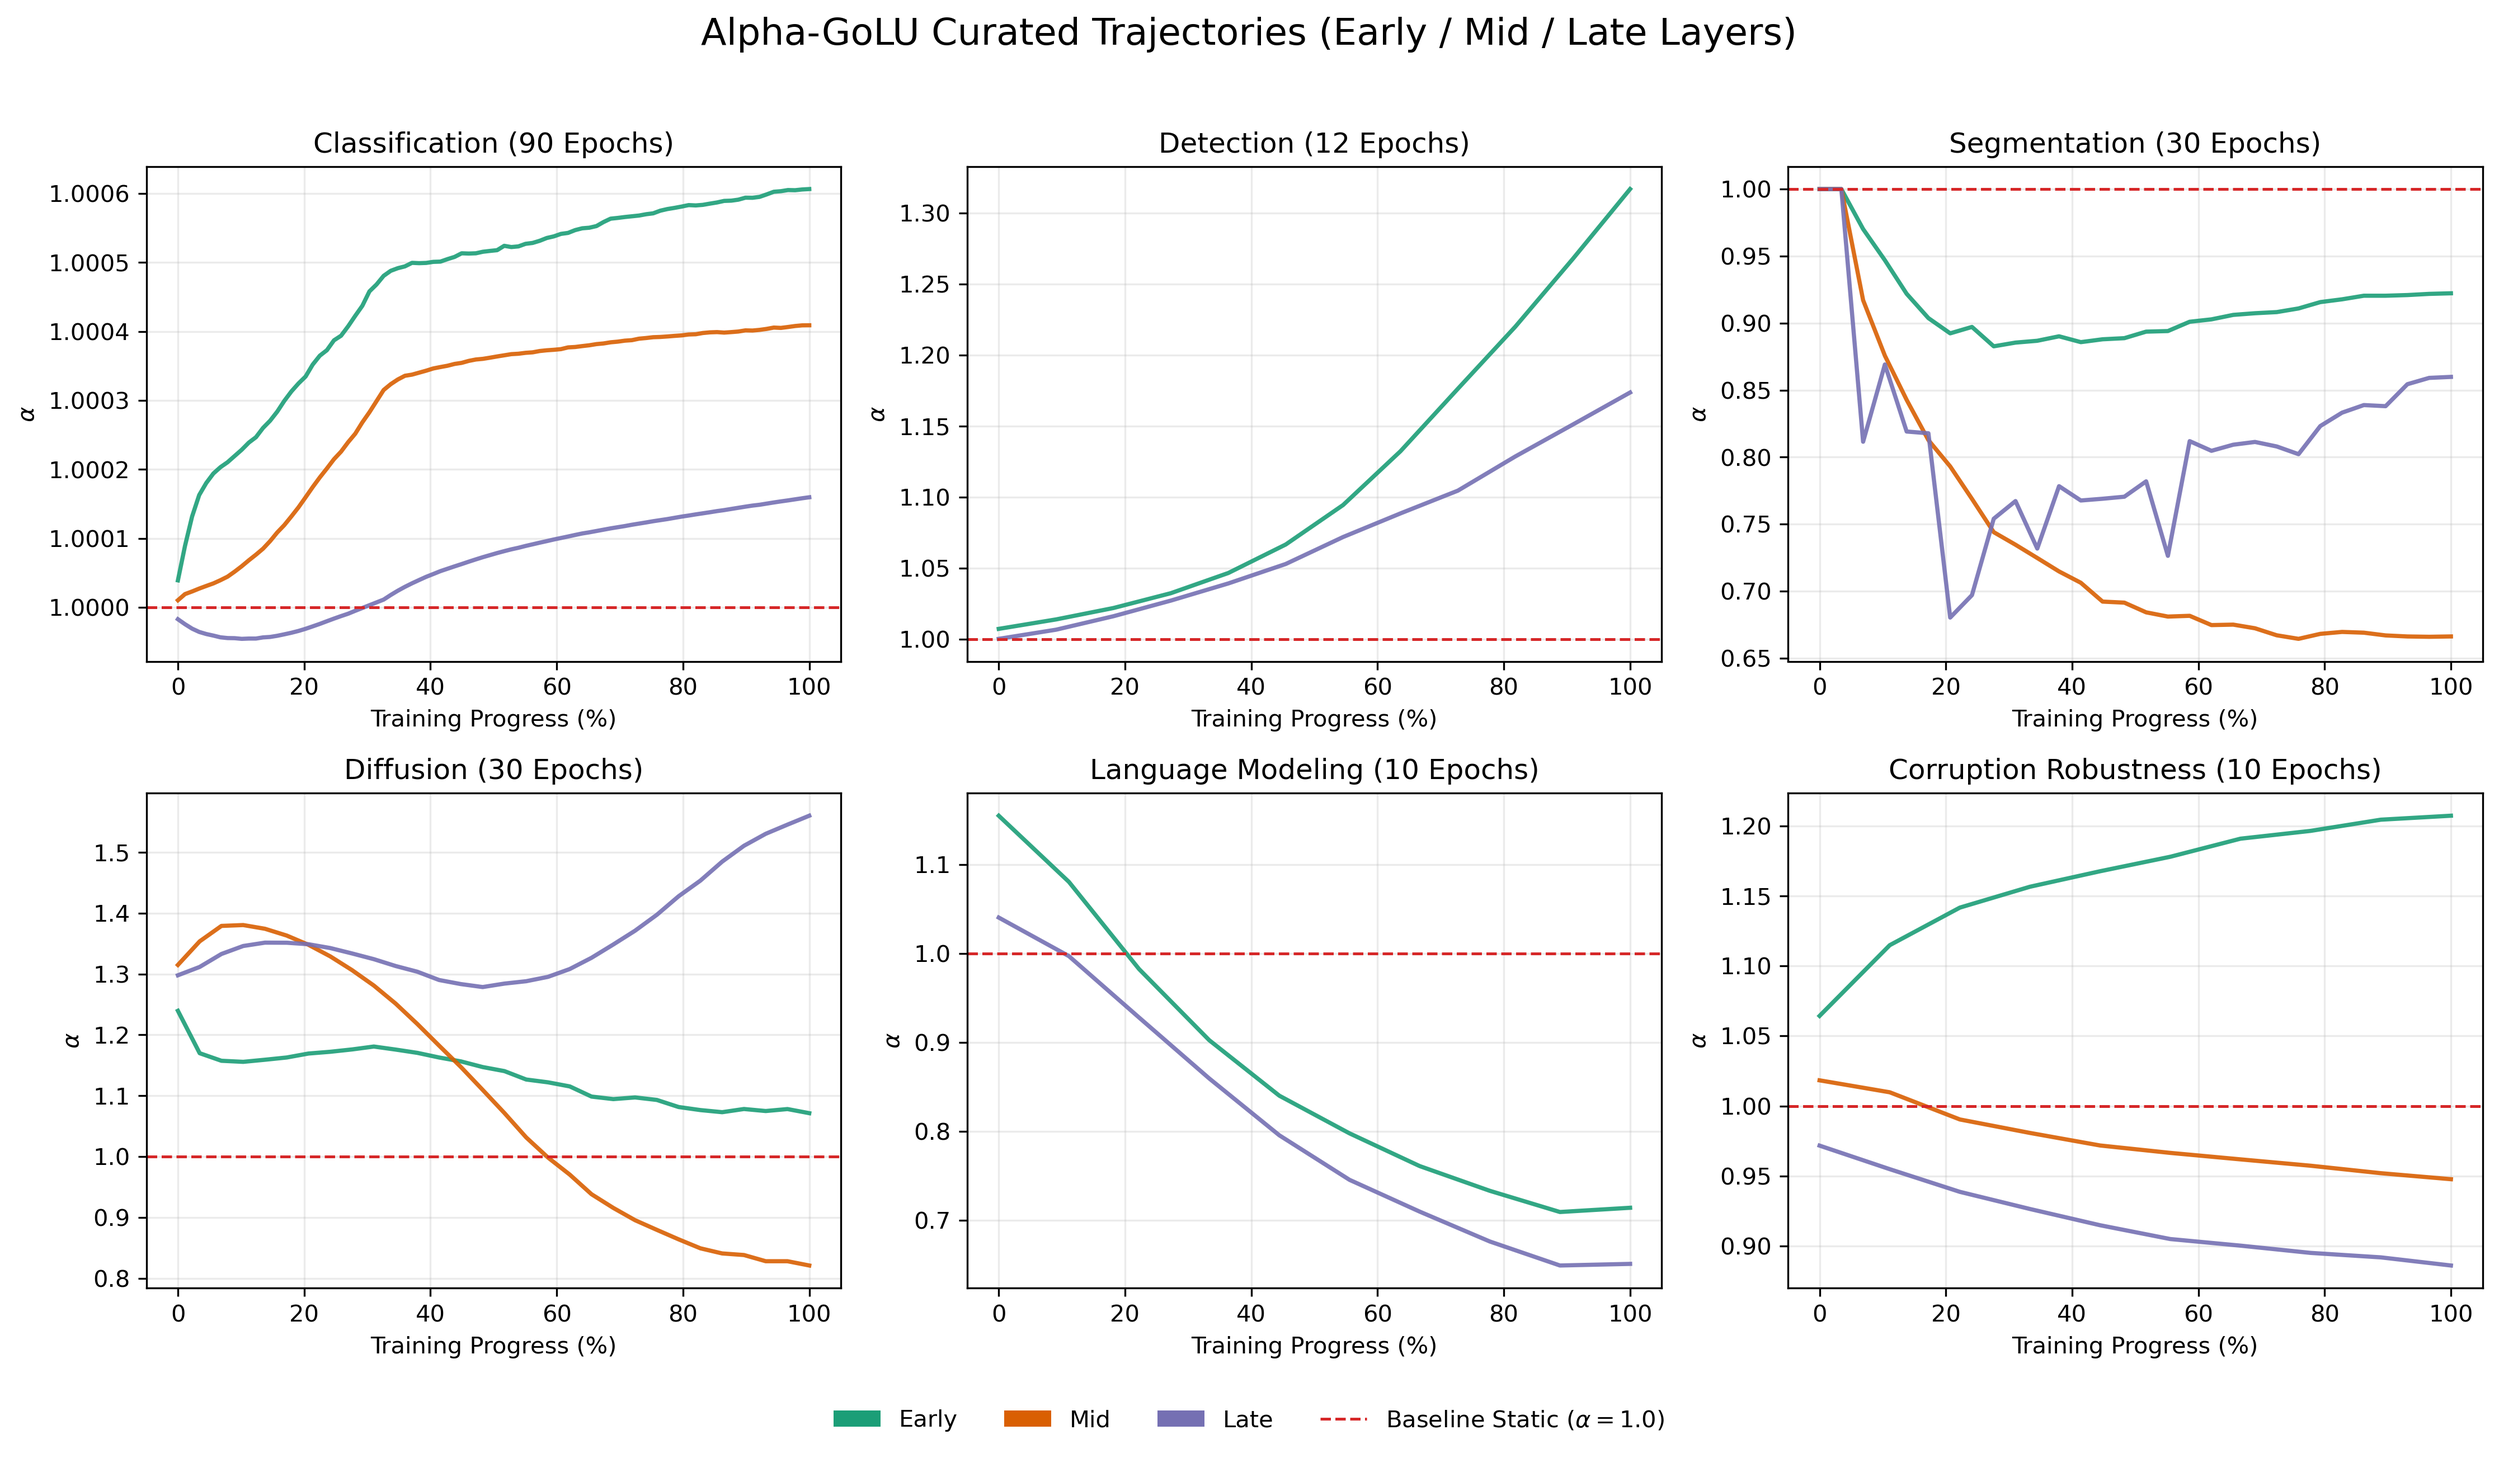
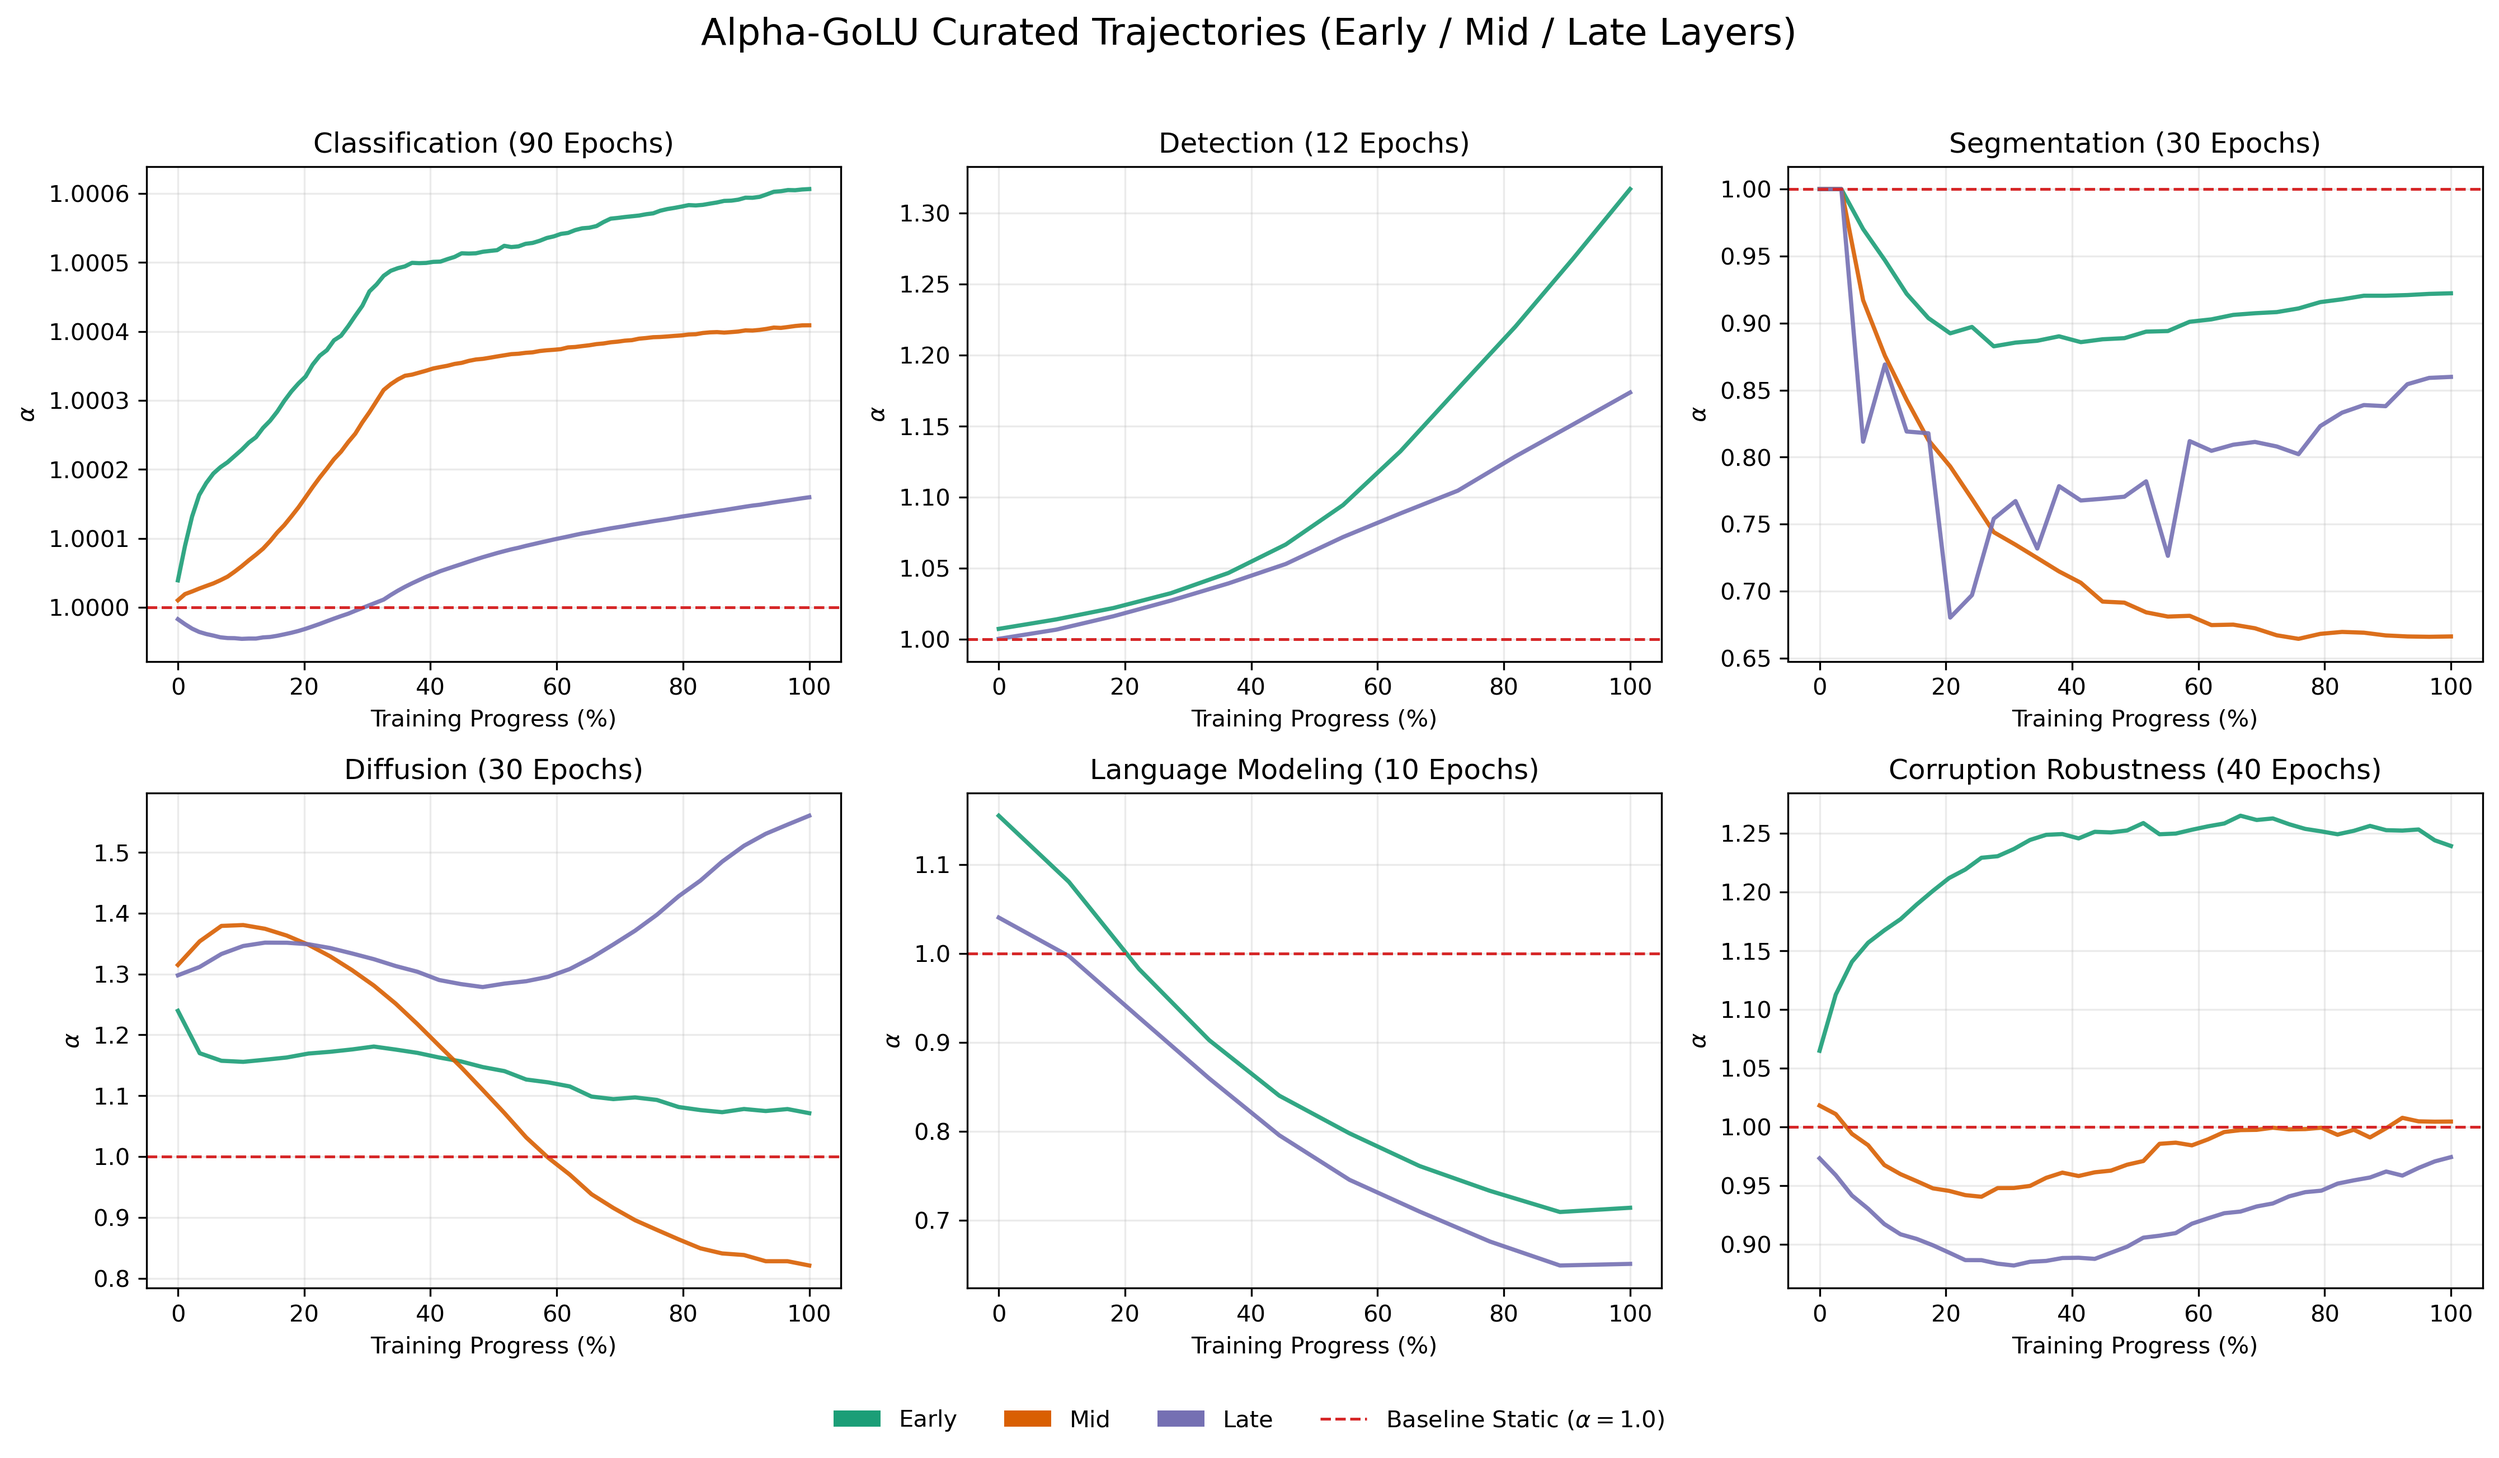
docs(assets): finalize publication plots and latex tables

diff --git a/outputs/paper_assets/.ipynb_checkpoints/benchmark_table-checkpoint.tex b/outputs/paper_assets/.ipynb_checkpoints/benchmark_table-checkpoint.tex
@@ -7,15 +7,15 @@
 Activation & \textbf{Classification} & \textbf{Detection} & \textbf{Diffusion} & \textbf{Language Model} & \textbf{Robustness} & \textbf{Segmentation} \\
 \midrule
 \texttt{ADAPTIVE-SWISH} & \underline{92.97 $\pm$ 0.13} & 0.69 $\pm$ 0.00 & 0.05 $\pm$ 0.00 & 106.36 $\pm$ 1.23 & 24.42 $\pm$ 0.85 & N/A \\
-\texttt{ALPHA-GOLU} & 92.86 $\pm$ 0.19 & 0.68 $\pm$ 0.02 & 0.06 $\pm$ 0.01 & \textbf{106.06 $\pm$ 1.22} & \textbf{28.65 $\pm$ 0.71} & \textbf{0.65 $\pm$ 0.01} \\
+\texttt{ALPHA-GOLU} & 92.86 $\pm$ 0.19 & 0.68 $\pm$ 0.02 & 0.06 $\pm$ 0.01 & \textbf{106.07 $\pm$ 1.22} & \textbf{29.61 $\pm$ 1.69} & \textbf{0.65 $\pm$ 0.01} \\
 \texttt{GELU} & \textbf{93.09 $\pm$ 0.09} & \textbf{0.70 $\pm$ 0.00} & 0.05 $\pm$ 0.00 & 106.30 $\pm$ 1.30 & 25.98 $\pm$ 2.93 & N/A \\
-\texttt{GOLU-STATIC} & 92.88 $\pm$ 0.13 & 0.68 $\pm$ 0.01 & 0.05 $\pm$ 0.00 & 106.32 $\pm$ 1.29 & 27.68 $\pm$ 4.86 & \underline{0.64 $\pm$ 0.01} \\
+\texttt{GOLU-STATIC} & 92.88 $\pm$ 0.13 & 0.68 $\pm$ 0.01 & 0.05 $\pm$ 0.00 & 106.32 $\pm$ 1.29 & \underline{29.45 $\pm$ 2.27} & \underline{0.64 $\pm$ 0.01} \\
 \texttt{PGELU} & 92.94 $\pm$ 0.12 & 0.69 $\pm$ 0.00 & 0.06 $\pm$ 0.01 & \underline{106.14 $\pm$ 1.32} & 27.42 $\pm$ 4.35 & N/A \\
 \texttt{PRELU} & 92.41 $\pm$ 0.18 & 0.69 $\pm$ 0.00 & \textbf{0.05 $\pm$ 0.00} & 107.08 $\pm$ 1.40 & 28.45 $\pm$ 6.55 & N/A \\
-\texttt{RELU} & 92.26 $\pm$ 0.85 & \underline{0.69 $\pm$ 0.00} & \underline{0.05 $\pm$ 0.00} & 106.79 $\pm$ 1.54 & \underline{28.55 $\pm$ 1.11} & N/A \\
+\texttt{RELU} & 92.26 $\pm$ 0.85 & \underline{0.69 $\pm$ 0.00} & \underline{0.05 $\pm$ 0.00} & 106.79 $\pm$ 1.54 & 28.55 $\pm$ 1.11 & N/A \\
 \texttt{SWISH} & 92.94 $\pm$ 0.16 & 0.69 $\pm$ 0.01 & 0.05 $\pm$ 0.00 & 107.25 $\pm$ 1.32 & 26.67 $\pm$ 3.76 & N/A \\
 \midrule
-\textit{$p$-value (Welch; $\alpha$ vs Static)} & \textit{p = 0.9485} & \textit{p = 0.9089} & \textit{p = 0.3433} & \textit{p = 0.0180} & \textit{p = 0.7483} & \textit{p = 0.1417} \\
+\textit{$p$-value (Welch; $\alpha$ vs Static)} & \textit{p = 0.9485} & \textit{p = 0.9089} & \textit{p = 0.3433} & \textit{p = 0.0204} & \textit{p = 0.9384} & \textit{p = 0.1469} \\
 \bottomrule
 \end{tabular}
 \caption{Empirical benchmark comparison across tasks. Best performance is in \textbf{bold}; second best is \underline{underlined}. Statistical significance is computed via Welch's $t$-test between Alpha-GoLU and GoLU Static.}

diff --git a/outputs/paper_assets/.ipynb_checkpoints/overhead_table-checkpoint.tex b/outputs/paper_assets/.ipynb_checkpoints/overhead_table-checkpoint.tex
@@ -15,7 +15,7 @@ Activation & \textbf{Classification} & \textbf{Detection} & \textbf{Segmentation
 \texttt{PGELU} & \shortstack{Fwd 3.23 ms\\Bwd 7.69 ms\\Mem 1157.7 MB\\FLOPs 1508975322.3M} & N/A & N/A & N/A & N/A & N/A \\
 \texttt{ADAPTIVE-SWISH} & \shortstack{Fwd 2.98 ms\\Bwd 6.04 ms\\Mem 834.7 MB\\FLOPs 1508975322.3M} & N/A & N/A & N/A & N/A & N/A \\
 \texttt{GOLU-STATIC} & \shortstack{Fwd 4.84 ms\\Bwd 9.69 ms\\Mem 1430.9 MB\\FLOPs 1502959117.5M} & \shortstack{Fwd 106.56 ms\\Bwd 78.82 ms\\Mem 6439.8 MB\\FLOPs 63452937772.8M} & N/A & \shortstack{Fwd 1.17 ms\\Bwd 2.48 ms\\Mem 816.0 MB\\FLOPs 358074144.0M} & N/A & \shortstack{Fwd 4.93 ms\\Bwd 13.24 ms\\Mem 2605.6 MB\\FLOPs 6679818300.0M} \\
-\texttt{ALPHA-GOLU} & \shortstack{Fwd 4.72 ms\\Bwd 11.40 ms\\Mem 1657.0 MB\\FLOPs 1508975322.3M} & N/A & \shortstack{Fwd 133.46 ms\\Bwd 138.06 ms\\Mem 24337.2 MB\\FLOPs 10800217779.2M} & N/A & \shortstack{Fwd 1.51 ms\\Bwd 3.08 ms\\Mem 1056.0 MB\\FLOPs 496289317.4M} & \shortstack{Fwd 5.06 ms\\Bwd 14.60 ms\\Mem 2605.6 MB\\FLOPs 6706556988.0M} \\
+\texttt{ALPHA-GOLU} & \shortstack{Fwd 4.72 ms\\Bwd 11.40 ms\\Mem 1657.0 MB\\FLOPs 1508975322.3M} & N/A & \shortstack{Fwd 133.46 ms\\Bwd 138.06 ms\\Mem 24337.2 MB\\FLOPs 10800217779.2M} & N/A & \shortstack{Fwd 1.51 ms\\Bwd 3.08 ms\\Mem 1056.0 MB\\FLOPs 496289317.4M} & N/A \\
 \bottomrule
 \end{tabular}
 \caption{Mean overhead summary aggregated from saved benchmark runs. Each cell reports forward latency, backward latency, peak CUDA memory, and estimated total FLOPs for the corresponding activation-task pair.}
